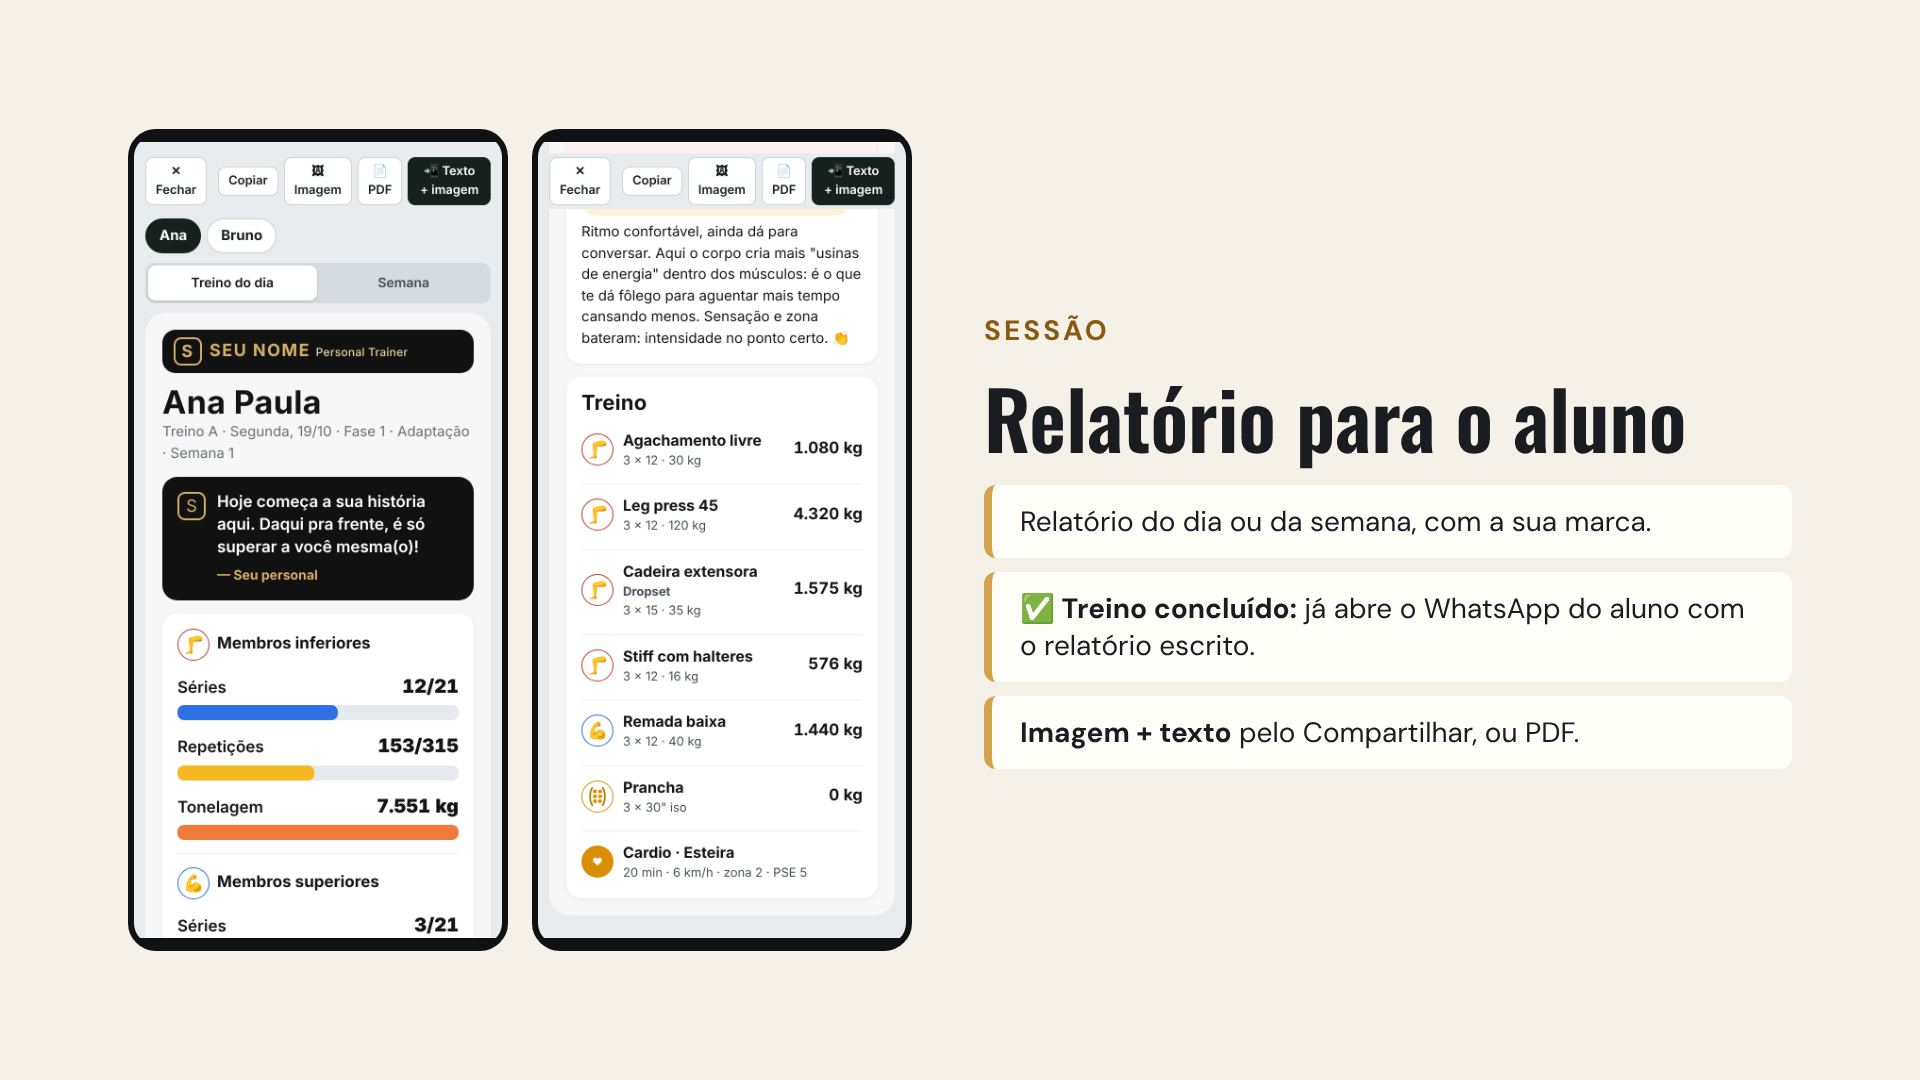
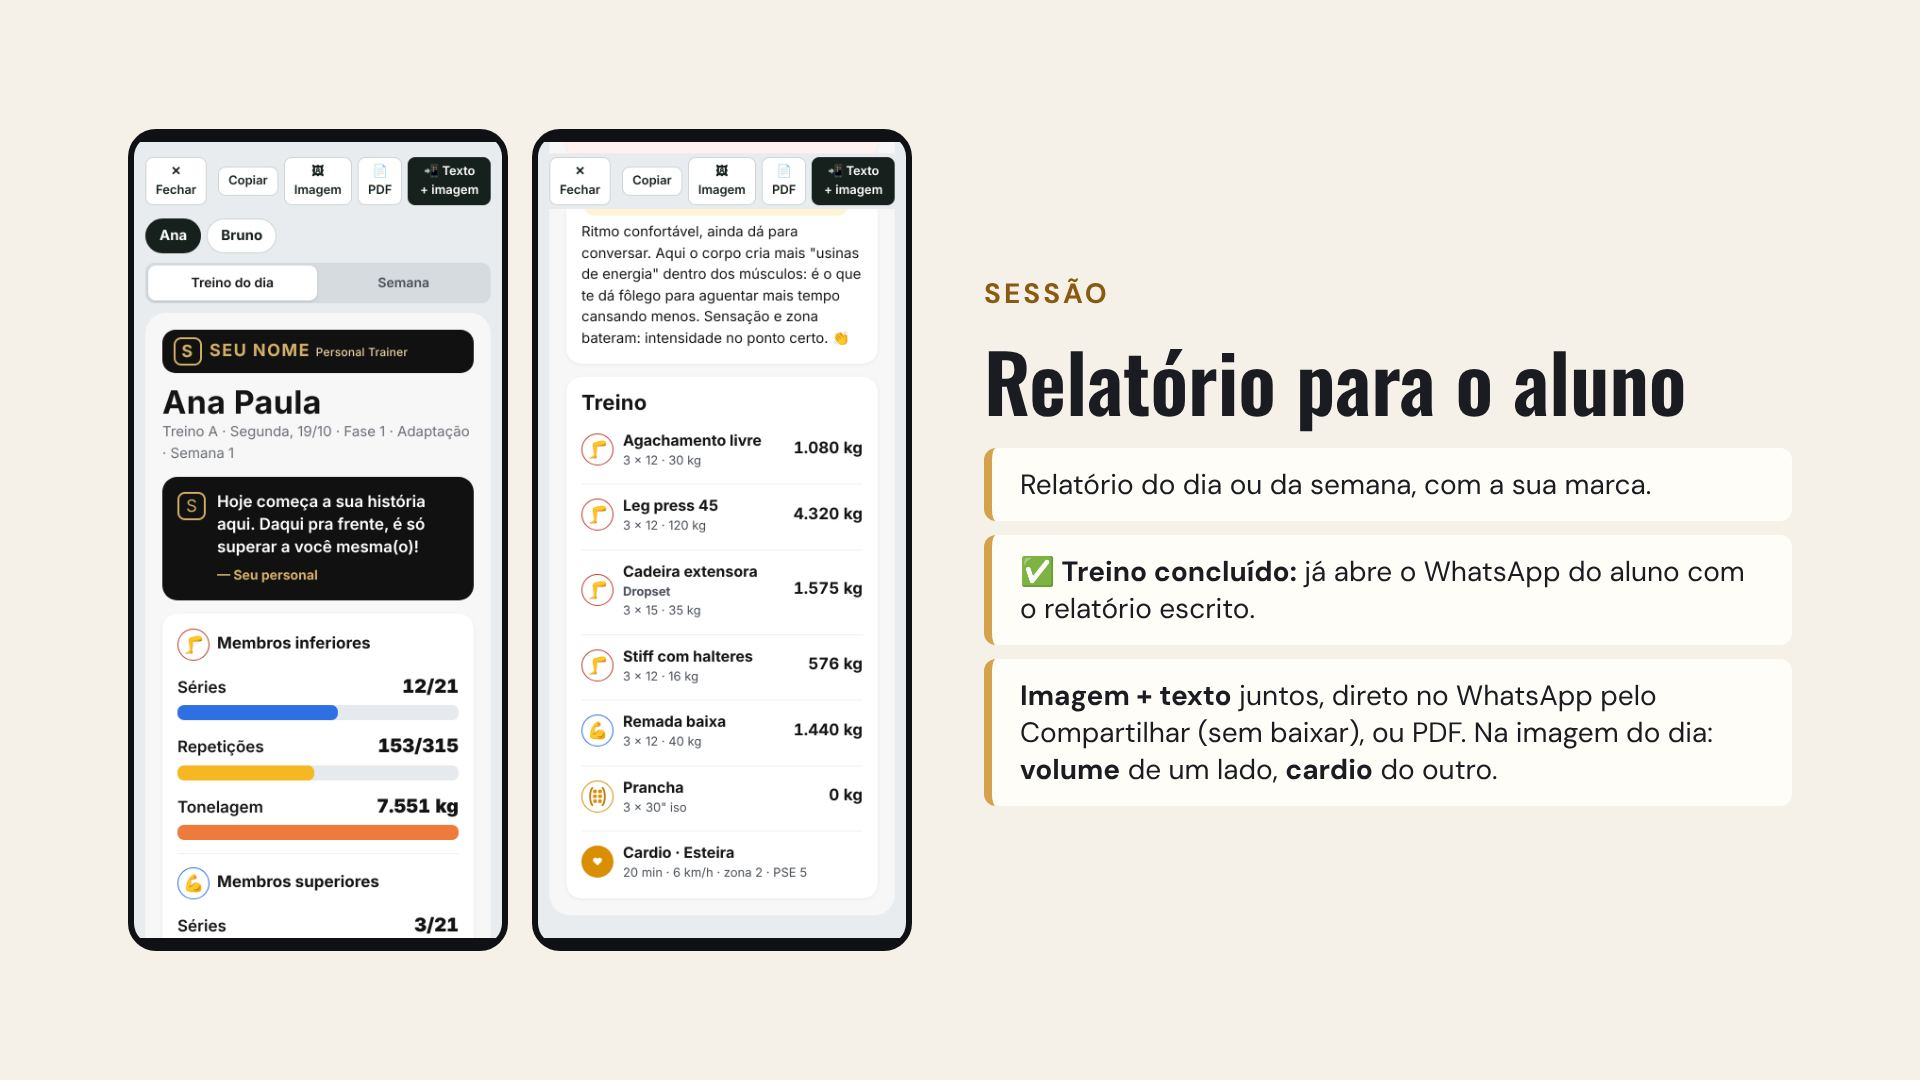
Relatório do dia: imagem volta a ser gerada; volume e cardio lado a lado, letras menores; Treino anterior sempre visível; slide atualizado
Claude-Session: https://claude.ai/code/session_01ExiWmKxJX9TgZX8HbSZjPY

Changed region(s): [[0.5, 0.2444, 0.9062, 0.6111], [0.5, 0.6417, 0.9062, 0.7333], [0.5, 0.6111, 0.5312, 0.6417]]

diff --git a/index.html b/index.html
@@ -1,4 +1,4 @@
-<!doctype html><html><head><meta charset=utf8><link rel="manifest" href="manifest.webmanifest"><meta name="theme-color" content="#0f1115"><link rel="icon" href="icon-192.png"><link rel="apple-touch-icon" href="icon-192.png"><meta name="apple-mobile-web-app-capable" content="yes"><meta name="mobile-web-app-capable" content="yes"><meta name="apple-mobile-web-app-title" content="Rotina do Personal"><meta name=viewport content="width=device-width,initial-scale=1,viewport-fit=cover"><style>:root{color-scheme:light;box-sizing:border-box;padding-top:env(safe-area-inset-top,0px);padding-bottom:env(safe-area-inset-bottom,0px)}html{scroll-padding-top:env(safe-area-inset-top,0px)}body{margin:0;padding:0;font:14px -apple-system,BlinkMacSystemFont,sans-serif;background:#faf9f5;color:#141413}img{max-width:100%}[hidden]:not([hidden=until-found i]){display:none!important}</style><script>window.RP_BUILD="1793015102";
+<!doctype html><html><head><meta charset=utf8><link rel="manifest" href="manifest.webmanifest"><meta name="theme-color" content="#0f1115"><link rel="icon" href="icon-192.png"><link rel="apple-touch-icon" href="icon-192.png"><meta name="apple-mobile-web-app-capable" content="yes"><meta name="mobile-web-app-capable" content="yes"><meta name="apple-mobile-web-app-title" content="Rotina do Personal"><meta name=viewport content="width=device-width,initial-scale=1,viewport-fit=cover"><style>:root{color-scheme:light;box-sizing:border-box;padding-top:env(safe-area-inset-top,0px);padding-bottom:env(safe-area-inset-bottom,0px)}html{scroll-padding-top:env(safe-area-inset-top,0px)}body{margin:0;padding:0;font:14px -apple-system,BlinkMacSystemFont,sans-serif;background:#faf9f5;color:#141413}img{max-width:100%}[hidden]:not([hidden=until-found i]){display:none!important}</style><script>window.RP_BUILD="1793023558";
 (function(){ var K="rp_upd_try";
   var T0=Date.now(); function chk(){ try{ fetch(location.pathname+"?v="+Date.now(),{cache:"no-store"}).then(function(r){ return r.text(); }).then(function(t){ var m=t.match(/window\.RP_BUILD="(\d+)"/); if(!m||m[1]===window.RP_BUILD) return;
       var tried=sessionStorage.getItem(K); if(Date.now()-T0<15000&&tried!==m[1]){ sessionStorage.setItem(K,m[1]); go(m[1]); return; } showUpd(m[1]); }).catch(function(){}); }catch(e){} }
@@ -336,6 +336,10 @@ input.mini{padding:5px;text-align:center}
 #restWin{--rwk:1;position:fixed;right:22px;bottom:190px;z-index:8500;min-width:calc(150px*var(--rwk));max-width:calc(230px*var(--rwk));background:var(--rwbg);color:var(--rwfg);border-radius:16px;box-shadow:0 8px 28px rgba(0,0,0,.35);border:2px solid rgba(127,127,127,.45);padding:6px 10px 8px;touch-action:none;user-select:none;cursor:grab}#restWin[hidden]{display:none}#restWin.drag{opacity:.85;cursor:grabbing}#restWin .rwh{display:flex;align-items:center;gap:6px;font-size:11px;font-weight:800;text-transform:uppercase;letter-spacing:.06em;opacity:.85}#restWin .rwh span:nth-child(2){flex:1}#restWin .rwg{font-size:15px}#restWin button{background:none;border:0;color:inherit;cursor:pointer;font:inherit}#restWin .rwx{font-size:16px;padding:2px 4px}#restWin .rwr{display:flex;align-items:center;gap:6px;margin-top:2px}#restWin .rwn{font-size:calc(13px*var(--rwk));font-weight:700;flex:1;min-width:0;overflow:hidden;text-overflow:ellipsis;white-space:nowrap}#restWin .rwt{font-size:calc(34px*var(--rwk));font-weight:900;line-height:1.05}#restWin .rwr.go .rwt{animation:rwpulse .6s ease-in-out infinite alternate}@keyframes rwpulse{to{opacity:.35}}#restWin .rwa{position:absolute;top:50%;transform:translateY(-50%);width:22px;height:44px;border-radius:10px!important;background:var(--rwbg)!important;border:2px solid rgba(127,127,127,.55)!important;font-size:12px!important;display:flex;align-items:center;justify-content:center;box-shadow:0 2px 8px rgba(0,0,0,.25)}#restWin .rwa-l{left:-16px}#restWin .rwa-r{right:-16px}#restWin .rws{font-size:calc(16px*var(--rwk));opacity:.8}#restWin .rwc{display:flex;gap:6px;justify-content:center;margin-top:6px}#restWin .rwc button{width:20px;height:20px;border-radius:50%;border:2px solid rgba(127,127,127,.6);padding:0}#restWin .rwc button.on{outline:2px solid var(--rwfg);outline-offset:2px}
 .sndnow{display:flex;align-items:center;justify-content:space-between;gap:8px;background:var(--ok-soft);border:2px solid var(--ok);border-radius:12px;padding:8px 10px}.sndnow span{display:grid;font-size:12px;color:var(--muted);font-weight:700}.sndnow b{font-size:16px;color:var(--fg)}.sndpl{font-style:normal;font-size:10px;opacity:.7;margin-left:2px}
 .tdays{margin:-2px 0 10px}.tdays .daychips{margin:0}.unit.xrepu{border:2.5px solid #E8710A!important;background:#FFF1E3!important;color:#5a2d00}.unit.xrepu.on{background:#E8710A!important;color:#fff}.unit.xrepu .xtag{background:#E8710A;color:#fff}.dyrep{position:absolute;top:-8px;right:-4px;font-style:normal;font-size:11px;background:#E8710A;color:#fff;border-radius:999px;padding:0 4px;line-height:16px}.daychips button{position:relative}
+.rep-2c{display:grid;gap:10px;align-items:start}.rep-colB{display:grid;gap:10px}.repcard.cap{width:680px!important;max-width:none!important}.repcard.cap .rep-2c:not(.one){grid-template-columns:1.15fr 1fr}@media (min-width:640px){.rep-2c:not(.one){grid-template-columns:1.15fr 1fr}}
+.rep-day .rep-box h3{font-size:17px}.rep-day .rep-head h2{font-size:28px}.rep-day .rep-head p{font-size:13px}.rep-day .rep-phrase p{font-size:14px}.rep-day .rep-rg-h b{font-size:14px}.rep-day .rep-reg{width:24px;height:24px}.rep-day .rep-reg .emo{font-size:14px}
+.rep-day .ebar-top{font-size:12.5px!important}.rep-day .ebar-top b{font-size:15px!important}.rep-day .rep-total span{font-size:12.5px}.rep-day .rep-total b{font-size:18px}.rep-day .rep-kcal b{font-size:17px}.rep-day .rep-kcal p,.rep-day .kc-note{font-size:11px}.rep-day .rep-sub{font-size:12px}
+.rep-day .rep-exm b{font-size:13.5px}.rep-day .rep-exm span{font-size:11.5px}.rep-day .rep-exv b{font-size:14px}.rep-day .rep-int .ri-tag{font-size:12px}.rep-day .rep-int p{font-size:12px}.rep-day .etrack{height:9px!important}.rep-day .ebar{gap:3px!important}.rep-day .rep-rg{gap:7px;padding-top:9px}.rep-day .rep-box{gap:10px;padding:13px}.rep-ctxt{font-size:12.5px;color:#141414;margin:6px 0 0}.rep-day .rep-motto{font-size:16px}
 .repask p{margin:0}.repask .rq{font-size:17px;font-weight:800}.repask .rbt{display:flex;gap:8px;flex-wrap:wrap;justify-content:center}.repask .rbt .btn{flex:1 1 140px}.repask small{color:var(--muted);font-size:12px}
 .xb-tec.on{background:var(--accent)!important;color:#fff!important}
 .tecmhint{margin:0;padding:4px 8px;font-size:11px;text-align:center;background:var(--accent-soft);color:var(--fg)}.xtec.pick{border-style:solid!important;color:var(--accent)!important;border-color:var(--accent)!important}
@@ -4130,12 +4134,14 @@ function reportHTML(m){
   const ks=REG.filter(k=>T.reg[k].s); const metaS=ks.reduce((a,k)=>a+g[k].s[1],0)||g.MMII.s[1]; const metaR=ks.reduce((a,k)=>a+g[k].r[1],0)||g.MMII.r[1];
   const date=addDays(w.start,DAYS.indexOf(S.day)); const p=phaseOf(m);
   const rows=(d?d.rows:[]).filter(r=>r.n1.trim()||subUsed(r.a)||subUsed(r.b));
-  return `<div class="repcard" id="repcard">
+  const hasC=!!(dayHasData(d)&&(T.cmin||T.wmin||String(wodOf(d).desc||"").trim()));
+  const cLine= T.cmin? `<div class="rep-ex"><span class="rep-reg r-C">♥</span><div class="rep-exm"><b>Cardio${d.cardio.tipo?` · ${esc(d.cardio.tipo)}`:""}</b><span>${T.cmin} min${T.cv?` · ${String(T.cv).replace(".",",")} km/h`:""}${d.cardio.z?` · zona ${esc(d.cardio.z)}`:""}${d.cardio.pse!==""?` · PSE ${esc(d.cardio.pse)}`:""}</span></div>${P&&P.cv&&T.cv?`<div class="rep-exv"><small class="${T.cv>=P.cv?"up":"down"}">${T.cv>P.cv?"▲":T.cv<P.cv?"▼":"="} ${String(Math.round(Math.abs(T.cv-P.cv)*10)/10).replace(".",",")} km/h</small></div>`:""}</div>` : "";
+  return `<div class="repcard rep-day" id="repcard">
     <div class="rep-brand">${repLogo()}<span>${esc(BR().nome).toUpperCase()} <small>${esc(BR().sub)}</small></span></div>
     <div class="rep-head"><div><h2>${esc(m.name)}</h2><p>${ltrOf(m.id,w.id,S.day,d)?`${tname(ltrOf(m.id,w.id,S.day,d))} · `:""}${DAY_N[S.day]}, ${ddmm(date)} · ${usesPh(m)?`${phT(m)} · ${p.n} · `:""}Semana ${w.n}</p>${sesTimes(d)?`<p class="rep-time">⏱ ${sesTimes(d)}</p>`:""}</div></div>
     ${dayHasData(d)? phraseHTML(dayPhrase(m,T,P,date)) : ""}
     ${!dayHasData(d)? `<p class="rep-empty">Nenhum treino lançado neste dia.</p>` : `
-    <div class="rep-box">
+    <div class="rep-2c ${hasC?"":"one"}"><div class="rep-box rep-vol"><h3>📊 Volume</h3>
       ${ks.length? ks.map(k=>{ const t=T.reg[k]; const pt=P?P.reg[k].t:0; return `<div class="rep-rg"><div class="rep-rg-h"><span class="rep-reg r-${k}">${regIcon(k)}</span><b>${REG_LABEL[k]}</b></div>
         ${ebar("Séries",t.s,g[k].s[1],`${t.s}/${g[k].s[1]}`,"e-s",t.s>g[k].s[1])}
         ${ebar("Repetições",t.r,g[k].r[1],`${nf(t.r)}/${nf(g[k].r[1])}`,"e-r",t.r>g[k].r[1])}
@@ -4144,16 +4150,17 @@ function reportHTML(m){
       ${(()=>{ const k=kcalDay(m,d,T); return k? `<div class="rep-kcal"><div class="rk-top"><span>🔥 Gasto <u>estimado</u></span><b class="num">${kcalTxt(k)}</b></div><p>${KCAL_NOTE}</p></div>` : ""; })()}
       <p class="rep-sub">${P&&P.t? `${deltaTxt(T.t,P.t)} de tonelagem em relação ao ${ltrOf(m.id,w.id,S.day,d)?refTxt(m.id):"treino da semana passada"}.` : ltrOf(m.id,w.id,S.day,d)? `Primeiro Treino ${ltrOf(m.id,w.id,S.day,d)} registrado.` : "Primeira semana registrada deste treino."}${T.t>=1200?` É como levantar ${carsTxt(T.t)} carros populares de 1.200 kg.`:""}</p>
     </div>
-    ${T.cmin+T.wmin?`<div class="rep-box rep-cardio"><span class="rep-heart">❤</span><p>${cardioTxt(T.cmin+T.wmin,totWeek(w.id,m.id).eq,T.cmin&&T.wmin)}</p></div>`:""}
-    ${(()=>{ const f=intensFb(d); return f? `<div class="rep-box rep-int"><span class="ri-tag">🎚 ${esc(f.tag)}</span><p>${esc(f.msg)}</p></div>` : ""; })()}
+    ${hasC?`<div class="rep-colB"><div class="rep-box rep-cbox"><h3>❤ Cardio</h3>${cLine}${T.wmin||String(wodOf(d).desc||"").trim()? `<div class="rep-ex"><span class="rep-reg r-C">🔥</span><div class="rep-exm"><b>${wodOf(d).tipo?`Método · ${esc(wodOf(d).tipo)}`:"Método"}${T.wmin?` · ${T.wmin} min`:""}</b>${wodOf(d).desc?`<span class="wdesc">${esc(wodOf(d).desc)}</span>`:""}</div></div>`:""}
+      ${T.cmin+T.wmin?`<p class="rep-ctxt">${cardioTxt(T.cmin+T.wmin,totWeek(w.id,m.id).eq,T.cmin&&T.wmin)}</p>`:""}</div>
+    ${(()=>{ const f=intensFb(d); return f? `<div class="rep-box rep-int"><span class="ri-tag">🎚 ${esc(f.tag)}</span><p>${esc(f.msg)}</p></div>` : ""; })()}</div>`:""}</div>
     <div class="rep-box"><h3>Treino</h3>
       ${rows.map(r=>{ const L=rowLines(r); const v=rowVol(r); const pv=prevRowVol(m.id,r.n1); const k=rowReg(r,"a"); const k2= r.conj&&L.length>1? rowReg(r,"b") : null;
         const badge=x=>`<span class="rep-reg r-${x}" title="${REG_LABEL[x]}">${regIcon(x)}</span>`;
         return `<div class="rep-ex">${k2? `<span class="rep-regs">${badge(k)}${badge(k2)}</span>` : badge(k)}<div class="rep-exm"><b>${esc(r.n1||"Exercício")}</b>
           ${r.tec?`<span class="rep-tec">${esc(r.tec)}</span>`:""}${L.map(l=>`<span>${r.conj&&L.length>1&&!l.sub?esc(l.n)+": ":""}${esc(setTxt(l.x,1,l.u))}</span>`).join("")}</div>
           <div class="rep-exv"><b class="num">${nf(v)} kg</b>${pv?`<small class="${v>=pv?"up":"down"}">${deltaTxt(v,pv)}</small>`:""}</div></div>`; }).join("")}
-      ${T.cmin? `<div class="rep-ex"><span class="rep-reg r-C">♥</span><div class="rep-exm"><b>Cardio${d.cardio.tipo?` · ${esc(d.cardio.tipo)}`:""}</b><span>${T.cmin} min${T.cv?` · ${String(T.cv).replace(".",",")} km/h`:""}${d.cardio.z?` · zona ${esc(d.cardio.z)}`:""}${d.cardio.pse!==""?` · PSE ${esc(d.cardio.pse)}`:""}</span></div>${P&&P.cv&&T.cv?`<div class="rep-exv"><small class="${T.cv>=P.cv?"up":"down"}">${T.cv>P.cv?"▲":T.cv<P.cv?"▼":"="} ${String(Math.round(Math.abs(T.cv-P.cv)*10)/10).replace(".",",")} km/h</small></div>`:""}</div>`:""}
-      ${T.wmin||String(wodOf(d).desc||"").trim()? `<div class="rep-ex"><span class="rep-reg r-C">🔥</span><div class="rep-exm"><b>${wodOf(d).tipo?`Método · ${esc(wodOf(d).tipo)}`:"Método"}${T.wmin?` · ${T.wmin} min`:""}</b>${wodOf(d).desc?`<span class="wdesc">${esc(wodOf(d).desc)}</span>`:""}</div></div>`:""}
+      ${!hasC&&T.cmin? `<div class="rep-ex"><span class="rep-reg r-C">♥</span><div class="rep-exm"><b>Cardio${d.cardio.tipo?` · ${esc(d.cardio.tipo)}`:""}</b><span>${T.cmin} min${T.cv?` · ${String(T.cv).replace(".",",")} km/h`:""}${d.cardio.z?` · zona ${esc(d.cardio.z)}`:""}${d.cardio.pse!==""?` · PSE ${esc(d.cardio.pse)}`:""}</span></div>${P&&P.cv&&T.cv?`<div class="rep-exv"><small class="${T.cv>=P.cv?"up":"down"}">${T.cv>P.cv?"▲":T.cv<P.cv?"▼":"="} ${String(Math.round(Math.abs(T.cv-P.cv)*10)/10).replace(".",",")} km/h</small></div>`:""}</div>`:""}
+      ${!hasC&&(T.wmin||String(wodOf(d).desc||"").trim())? `<div class="rep-ex"><span class="rep-reg r-C">🔥</span><div class="rep-exm"><b>${wodOf(d).tipo?`Método · ${esc(wodOf(d).tipo)}`:"Método"}${T.wmin?` · ${T.wmin} min`:""}</b>${wodOf(d).desc?`<span class="wdesc">${esc(wodOf(d).desc)}</span>`:""}</div></div>`:""}
     </div>`}
     ${bodyBoxHTML(m,date)}
     ${MOTTO_H()}
@@ -4226,8 +4233,9 @@ function renderReport(){
     <textarea id="repFallback" class="inp" rows="6" hidden aria-label="Texto do relatório"></textarea>
   </div>`;
 }
-function repImageBlob(id){ const card=document.getElementById(id||"repcard");
-  return h2cZ(card,{scale:2,backgroundColor:"#ffffff",useCORS:true}).then(c=>new Promise(res=>c.toBlob(res,"image/png"))); }
+function h2cZ(el,o){ const z=document.body.style.zoom; document.body.style.zoom=""; const r=html2canvas(el,o); const back=()=>{ document.body.style.zoom=z; }; return r.then(v=>{ back(); return v; },e=>{ back(); throw e; }); }
+function repImageBlob(id){ const card=document.getElementById(id||"repcard"); const wide=card.classList.contains("rep-day"); if(wide) card.classList.add("cap");
+  return h2cZ(card,{scale:2,backgroundColor:"#ffffff",useCORS:true}).then(c=>{ card.classList.remove("cap"); return new Promise(res=>c.toBlob(res,"image/png")); },e=>{ card.classList.remove("cap"); throw e; }); }
 async function saveImgBlob(blob,name){ const dl=(window.claude&&claude.use)? await claude.use("downloads") : null;
   if(dl){ await dl.save({filename:name,data:blob}); return true; }
   try{ const u=URL.createObjectURL(blob); const a=document.createElement("a"); a.href=u; a.download=name; document.body.appendChild(a); a.click(); a.remove(); setTimeout(()=>URL.revokeObjectURL(u),4000); return true; }catch(e){ return false; } }
@@ -4377,7 +4385,7 @@ function repAuto(){ if(CUR_TAB!=="sessao"||REP_POP||repMode()==="uma") return; l
   const st=A(); ms=[st].concat(ms.filter(x=>x!==st)).filter(x=>ms.includes(x));
   const m=ms.find(x=>!REP_SEEN[repKey(x.id)]&&repAskOn(x,dayOf(S.week,x.id,S.day))); if(!m) return; REP_SEEN[repKey(m.id)]=1; REP_POP=m.id; repPopRender(); }
 document.addEventListener("click",e=>{ const b=e.target.closest&&e.target.closest("#repPop [data-repx],#repPop [data-repask],#repPop [data-repmode],[data-repopen]"); if(!b) return;
-  if(b.dataset.repopen){ REP_POP=b.dataset.repopen; repPopRender(); return; }
+  if(b.dataset.repopen){ if(!repRefOk(b.dataset.repopen)){ toast("Ainda não tem treino anterior lançado para este treino."); return; } REP_POP=b.dataset.repopen; repPopRender(); return; }
   if(b.dataset.repmode){ S.brand=Object.assign({},S.brand||{},{repAskMode:b.dataset.repmode}); save(); repPopRender(); toast(b.dataset.repmode==="uma"?"Não vai abrir sozinho. Use ↻ Treino anterior em cima da tabela.":"Vai abrir sempre que o treino começar."); return; }
   if(b.dataset.repask){ const sid=b.dataset.repsid; repAskDo(sid,b.dataset.repask,true); REP_POP=null; repPopRender(); renderSessao(); setTimeout(repAuto,50); return; }
   if(b.hasAttribute("data-repx")){ REP_POP=null; repPopRender(); setTimeout(repAuto,50); } });
@@ -4656,7 +4664,7 @@ function colHTML(m,w,ms){
     ${repAskHTML(m,d)}<div id="alr-${m.id}">${alertsHTML(m,d)}</div>
     <div class="sheetx" data-sheet>
       <div class="xhead"><span class="xh-l">${(()=>{ const L=ltrOf(m.id,w.id,S.day,d); return `<button class="xh-ltr" data-ltredit aria-label="Trocar o treino do dia"><small>Treino</small><b>${L?esc(LTR_ALL.includes(L)?L:L.slice(0,4)):"?"}</b></button>`; })()}</span><span class="xh-ex">Exercício${qtip("ex")}</span><span><i class="s">Sér</i><i class="l">Séries</i></span><span><i class="s">Reps</i><i class="l">Repetições</i></span><span><i class="s">Kg</i><i class="l">Carga (kg)</i></span><span><i class="s">Vol</i><i class="l">Volume</i></span><span><i class="s">Desc</i><i class="l">Descanso</i></span></div>
-      <div class="xband xband3"><span class="xb-ex xb-ex2 xb3">${repRefOk(m.id)?`<button class="xb-sug" data-repopen="${m.id}" title="Repetir ou visualizar o treino anterior">↻ Treino anterior</button>`:""}<button class="xb-sug ${sugOpen===m.id?"on":""}" data-sug>💡 Sugerir exercícios</button><button class="xb-sug xb-tec ${TEC_MODE?"on":""}" data-tecmode title="Escolher método avançado nos exercícios">⚡ Métodos avançados${TEC_MODE?" ✓":""}</button></span></div>${TEC_MODE?`<p class="tecmhint">Toque em <b>+ Método</b> no exercício. Toque em ⚡ Métodos avançados de novo para esconder.</p>`:""}
+      <div class="xband xband3"><span class="xb-ex xb-ex2 xb3"><button class="xb-sug" data-repopen="${m.id}" title="Repetir ou visualizar o treino anterior">↻ Treino anterior</button><button class="xb-sug ${sugOpen===m.id?"on":""}" data-sug>💡 Sugerir exercícios</button><button class="xb-sug xb-tec ${TEC_MODE?"on":""}" data-tecmode title="Escolher método avançado nos exercícios">⚡ Métodos avançados${TEC_MODE?" ✓":""}</button></span></div>${TEC_MODE?`<p class="tecmhint">Toque em <b>+ Método</b> no exercício. Toque em ⚡ Métodos avançados de novo para esconder.</p>`:""}
       ${(()=>{ const ref=prevRef(m.id); const pr=ref&&ref.d? ref.d.rows : []; const used=new Set();
         const curD=addDays(w.start,DAYS.indexOf(S.day));
         const pick=(r,i)=>{ const y=pick0(r,i); if(y||!r.n1.trim()) return y; return lastDone(m.id,r.n1,curD); };
@@ -5529,7 +5537,7 @@ const DIAS_L=['domingo','segunda','terça','quarta','quinta','sexta','sábado'];
 const fillT=(t,nome,n)=> String(t||"").replace(/\{nome\}/g,nome).replace(/\{n\}/g,n);
 const paras=(t,nome,n)=> String(t||"").split(/\n\s*\n|\n/).map(x=>x.trim()).filter(Boolean).map((x,i)=>`<p class="pc-p ${i?'pc-w':''}">${esc(fillT(x,nome,n))}</p>`).join('');
 /* html2canvas desmonta o texto quando a página está com zoom (A+): gera sempre sem zoom */
-function h2cZ(el,o){ const z=document.body.style.zoom; document.body.style.zoom=""; const r=html2canvas(el,o); const back=()=>{ document.body.style.zoom=z; }; return r.then(v=>{ back(); return v; },e=>{ back(); throw e; }); }
+
 function BRc(){ const b=BR(); return b.frases==="nao"? Object.assign({},b,{pMsg:"",pGold:"",pFim:"",lema:"",fOk:"",fNo:""}) : b; }
 function cardPdf(html,bg){ return (async()=>{ const box=document.createElement('div'); box.style.cssText='position:fixed;left:-10000px;top:0;width:600px;z-index:-1'; box.innerHTML=html; document.body.appendChild(box);
   try{ const c=await h2cZ(box.firstElementChild,{scale:2,backgroundColor:bg||TH().bg,useCORS:true});
